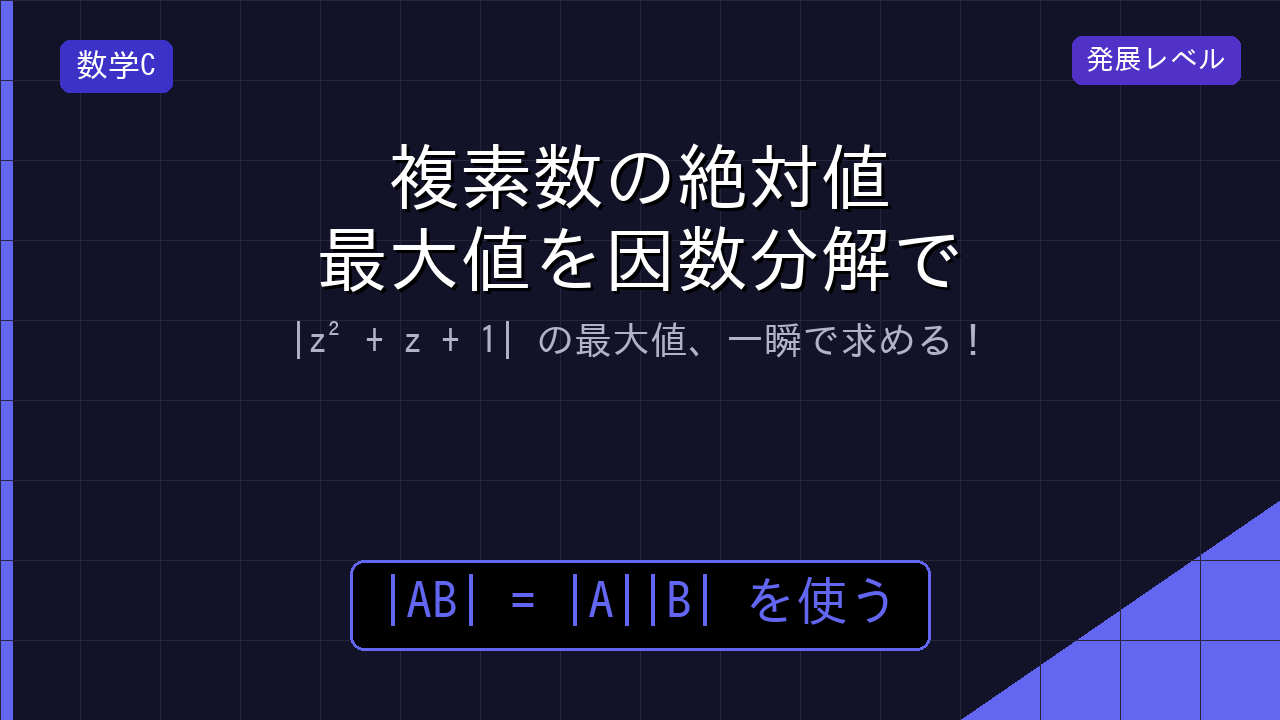
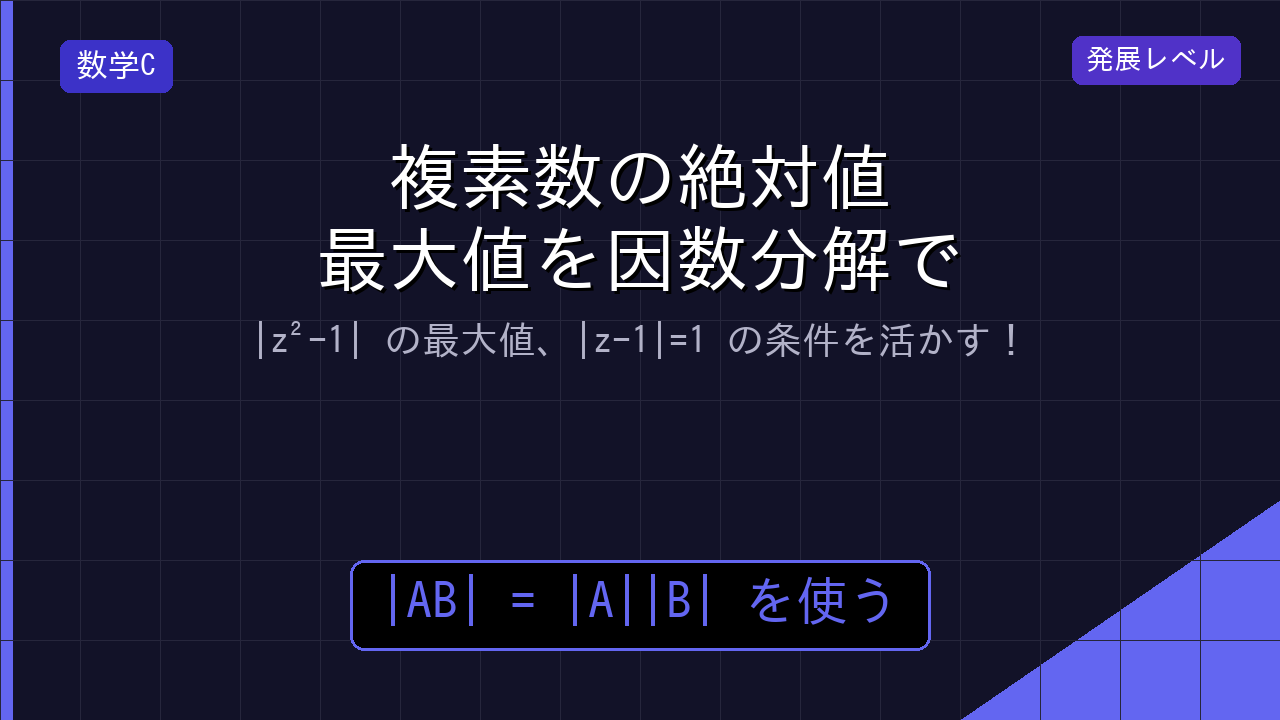
fix: correct thumbnail content to match actual slide problems
- math2_exponential_substitution: 4^x-2^(x+2)+3=0 → 4^x-3×2^x-4=0
- math3_integral_squared: √(1-x²)/x=sinθ → 1/(1+x²)²/x=tanθ
- mathB_recurrence_divide: a(n+1)/a(n) → b(n)=a(n)/2^n と置く
- mathC_complex_factorize: |z²+z+1| → |z²-1|、|z-1|=1 条件明記
- mathC_complex_identity: z³を求める → z³+1/z³を求める

https://claude.ai/code/session_01RSGQmnHdbfXLMJ9wtxnzo2

Changed region(s): [[0.1875, 0.4278, 0.7812, 0.4889]]

diff --git a/tools/make_thumbnails.py b/tools/make_thumbnails.py
@@ -165,7 +165,7 @@ THUMBNAILS = {
         subject_tag   = '数学II',
         subject_color = (20, 140, 60),
         main_text     = '指数方程式を\n2次方程式に変換',
-        sub_text      = '4^x - 2^(x+2) + 3 = 0 を一発で解く！',
+        sub_text      = '4^x - 3×2^x - 4 = 0 を一発で解く！',
         formula       = 't = 2^x と置く',
         badge_text    = None,
         badge_color   = None,
@@ -187,8 +187,8 @@ THUMBNAILS = {
         subject_tag   = '数学III',
         subject_color = (110, 40, 200),
         main_text     = '三角置換で\n定積分を攻略',
-        sub_text      = '√(1−x²) の積分、三角関数に変換する！',
-        formula       = 'x = sinθ と置く',
+        sub_text      = '∫1/(1+x²)² dx、三角置換で一気に解く！',
+        formula       = 'x = tanθ と置く',
         badge_text    = '発展レベル',
         badge_color   = (120, 40, 200),
     ),
@@ -232,7 +232,7 @@ THUMBNAILS = {
         subject_color = (180, 90, 20),
         main_text     = '漸化式は\n両辺を割るだけ！',
         sub_text      = '等差数列に帰着させる変形テクニック',
-        formula       = 'a(n+1)/a(n) を作る',
+        formula       = 'b(n) = a(n)/2^n と置く',
         badge_text    = None,
         badge_color   = None,
     ),
@@ -253,7 +253,7 @@ THUMBNAILS = {
         subject_tag   = '数学C',
         subject_color = (60, 50, 200),
         main_text     = '複素数の絶対値\n最大値を因数分解で',
-        sub_text      = '|z² + z + 1| の最大値、一瞬で求める！',
+        sub_text      = '|z²-1| の最大値、|z-1|=1 の条件を活かす！',
         formula       = '|AB| = |A||B| を使う',
         badge_text    = '発展レベル',
         badge_color   = (80, 50, 200),
@@ -263,7 +263,7 @@ THUMBNAILS = {
         accent        = (129, 140, 248),
         subject_tag   = '数学C',
         subject_color = (70, 60, 210),
-        main_text     = 'z + 1/z = 1 から\nz³ を求める',
+        main_text     = 'z + 1/z = 1 から\nz³+1/z³ を求める',
         sub_text      = '複素数の恒等式を連鎖させる解法！',
         formula       = '3乗は2段階で',
         badge_text    = '発展レベル',
